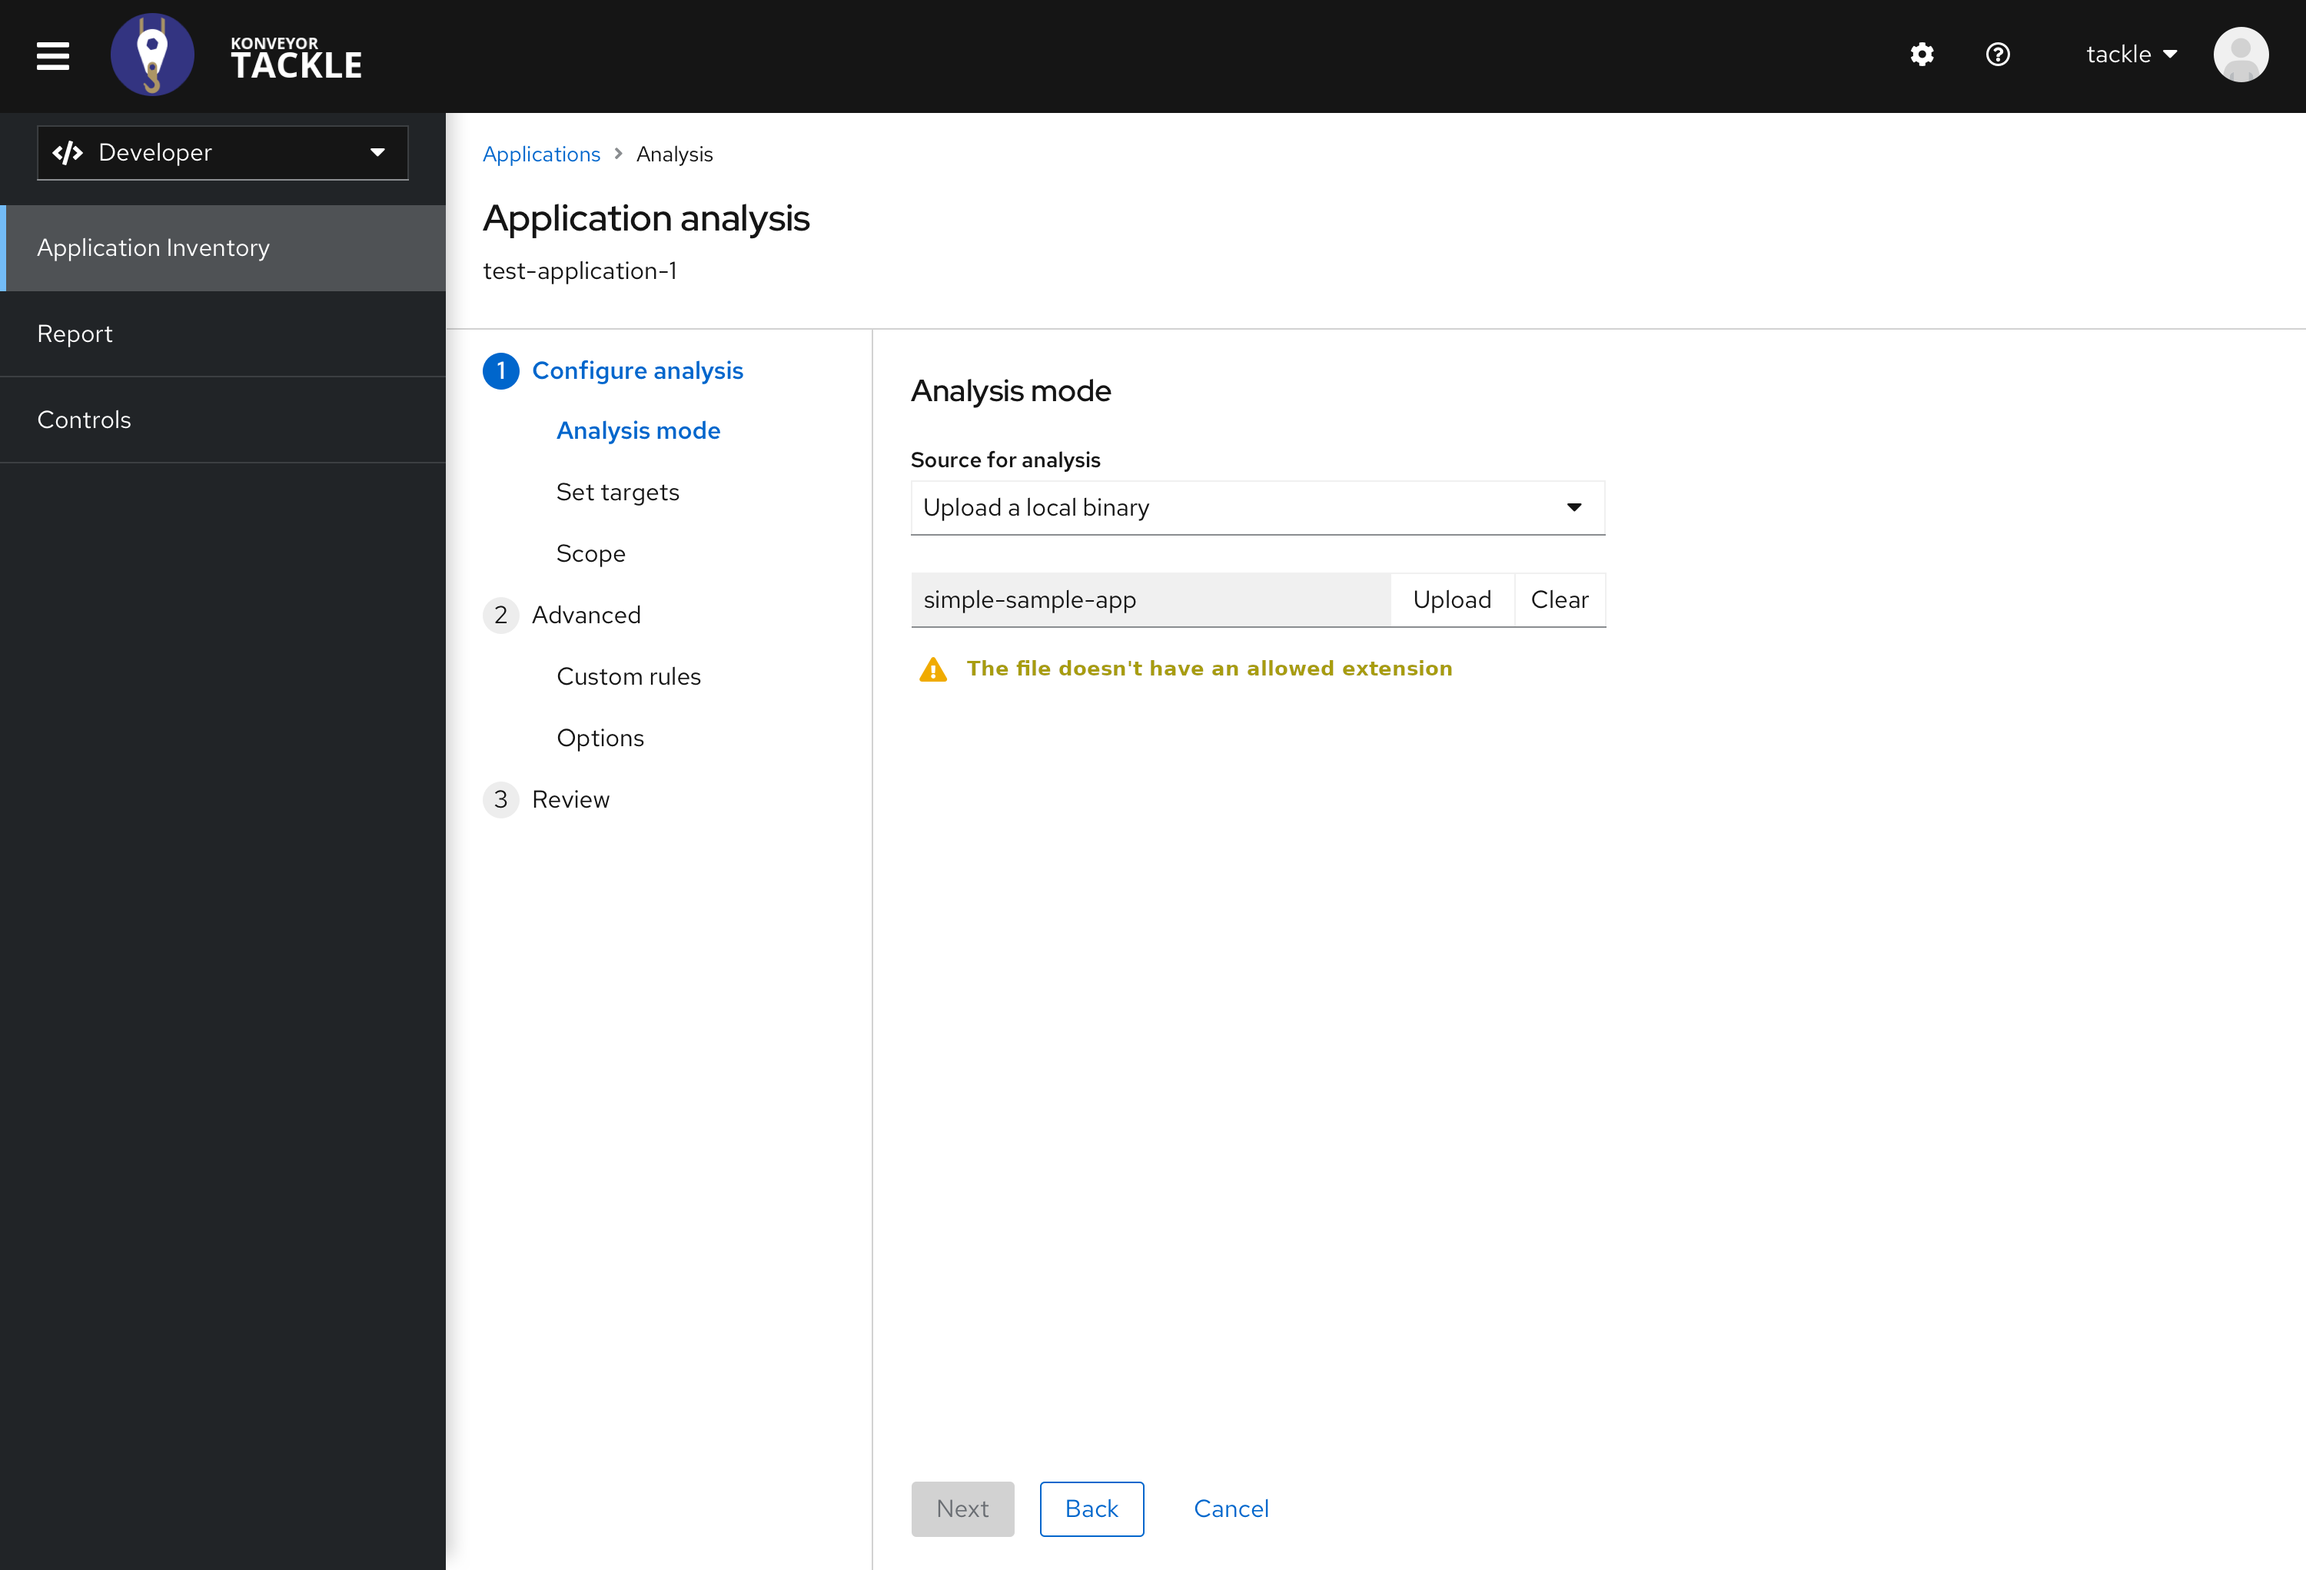
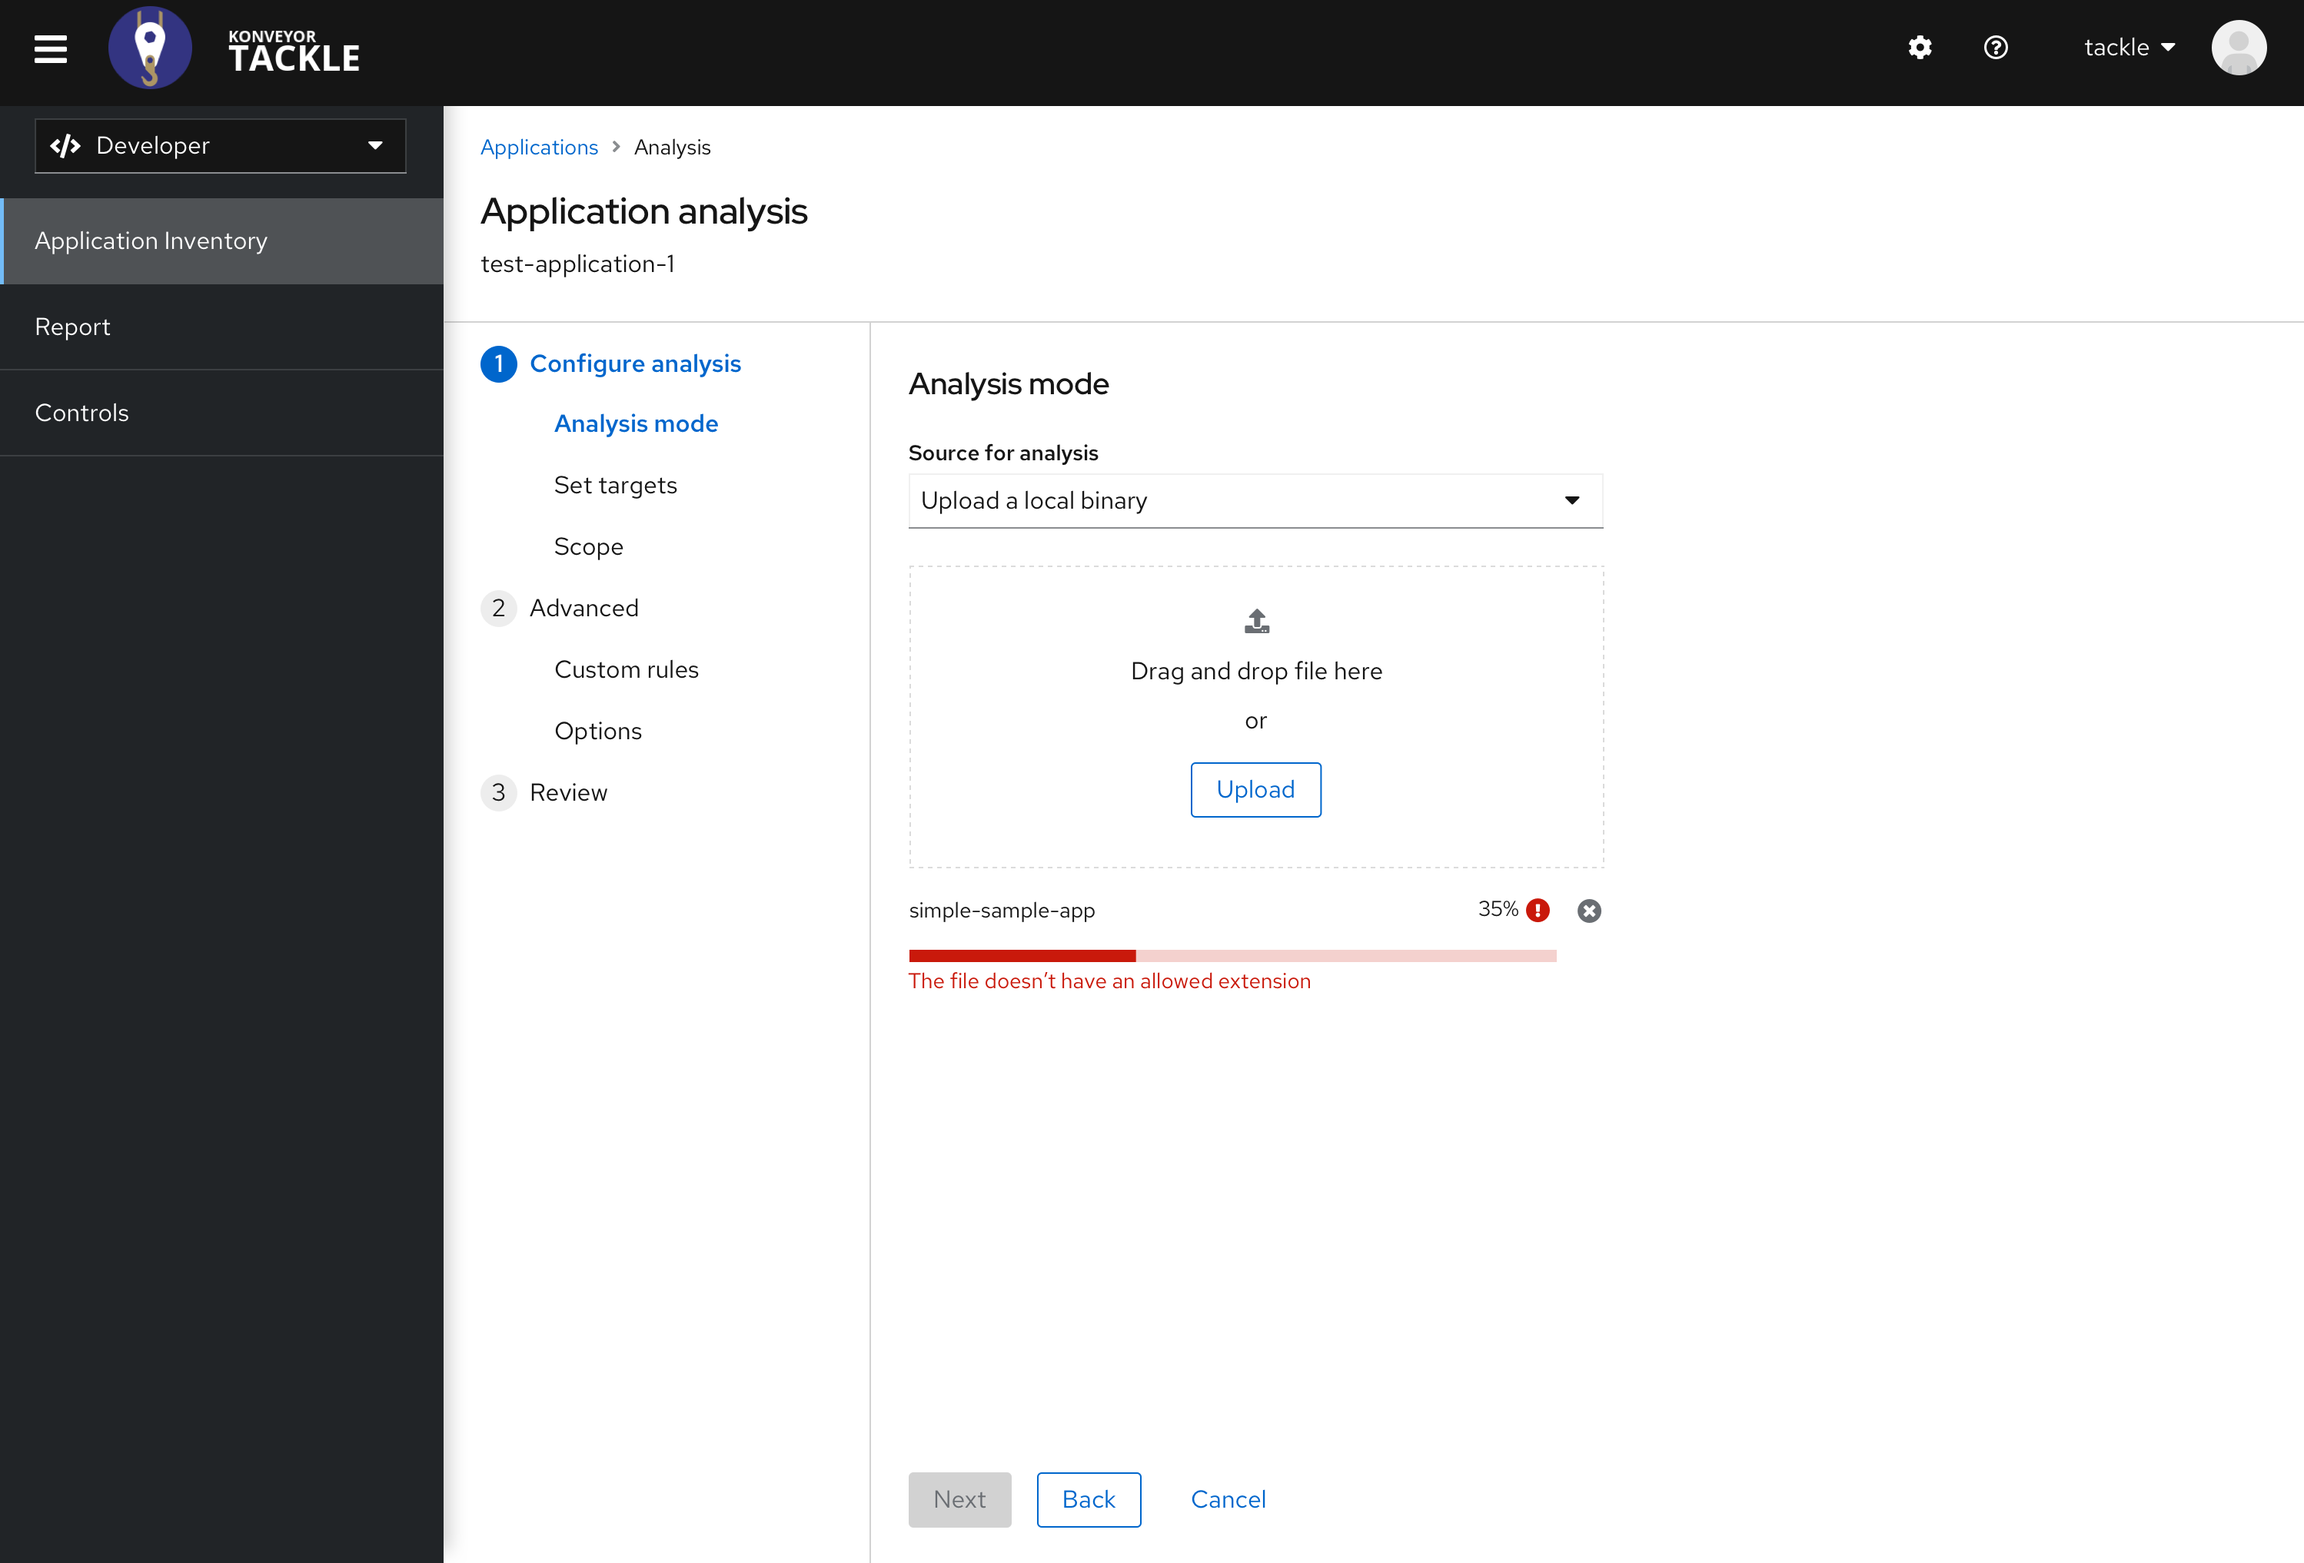
Enhanced advanced options screen to accomodate sources and targets from custom rules. Updated some mockups.

diff --git a/enhancements/tackle/tackle-windup-integration/README.md b/enhancements/tackle/tackle-windup-integration/README.md
@@ -3,12 +3,12 @@ title: tackle-windup-integration
 authors:
   - "rromannissen"
 reviewers:
-  - TBD
+  - "jortel"
 approvers:
-  - TBD
+  - "jortel"
 creation-date: 2021-11-19
-last-updated: 2022-01-26
-status: provisional
+last-updated: 2022-03-11
+status: implementable
 see-also:
   -   
 replaces:
@@ -22,8 +22,8 @@ superseded-by:
 
 ## Release Signoff Checklist
 
-- [ ] Enhancement is `implementable`
-- [ ] Design details are appropriately documented from clear requirements
+- [X] Enhancement is `implementable`
+- [X] Design details are appropriately documented from clear requirements
 - [ ] Test plan is defined
 - [ ] User-facing documentation is created
 
@@ -524,8 +524,8 @@ After optionally adding custom rules, the user can configure a series of advance
 
 This screen presents the following fields:
 
-- **Target(s)**: List of targets configured for the analysis. It should be prepopulated with the values that were established in the transformation target screen. The field should be a dropdown with multiple selection. The selected values should be passed to the CLI with the --target flag separated by spaces. (eg. --target eap7 cloud-readiness) Values:
-  - camel
+- **Target(s)**: List of targets configured for the analysis. It should be prepopulated with the values that were established in the transformation target screen. **If the user uploaded any custom rules on the previous screen, targets from these rules should appear selected as well**. The field should be a dropdown with multiple selection. The selected values should be passed to the CLI with the --target flag separated by spaces. (eg. --target eap7 cloud-readiness) Values should include the following fixed list **plus any custom target that might have been derived from the custom rules in the previous screen**. For example, if any custom rule in the previous screen had a target named *custom-target*, it should be added as well to the following list of available options and appear as selected in the list of selected targets:
+    - camel
 	- cloud-readiness
 	- drools
 	- eap
@@ -545,8 +545,8 @@ This screen presents the following fields:
 	- quarkus1
 	- resteasy
 	- rhr
-- **Source**: List of sources configured for the analysis. This helps narrowing down the list of rules that should be executed during the analysis. The field should be a dropdown with multiple selection. The selected values should be passed to the CLI with the --source flag separated by spaces. (eg. --source eap eap6). Values:
-  - agroal
+- **Source(s)**: List of sources configured for the analysis. This helps narrowing down the list of rules that should be executed during the analysis. The field should be a dropdown with multiple selection. It should be empty by default, but **if the user uploaded any custom rules on the previous screen, sources from these rules should appear selected as well** The selected values should be passed to the CLI with the --source flag separated by spaces. (eg. --source eap eap6). Values should include the following fixed list **plus any custom source that might have been derived from the custom rules in the previous screen**. For example, if any custom rule in the previous screen had a source named *custom-source*, it should be added as well to the following list of available options and appear as selected in the list of selected sources:
+    - agroal
 	- amazon
 	- artemis
 	- avro
@@ -600,12 +600,13 @@ This screen presents the following fields:
 At the end of the analysis configuration flow, the user will be presented with a review screen with all the options that have been configured for the analysis:
 
 
-![Advanced Options](images/ba-review.png?raw=true "Advanced Options")
+![Analysis Review](images/ba-review.png?raw=true "Analysis Review")
 
 The review screen will be informative only, and no inputs will be requested to the user. The information to be displayed is the following:
 
 - **Applications**: List of applications included in the analysis.
 - **Target(s)**: Target migration paths defined for the analysis.
+- **Source(s)**: Sources defined for the analysis.
 - **Scope**: Scope defined for the analysis.
 - **Included Packages**: List of packages defined for the analysis. This section will only be displayed if the "Select the list of packages to be analyzed manually" scope was defined.
 - **Custom rules**: List of custom rules defined for the analysis. "None" if no custom rules were defined.
@@ -649,7 +650,11 @@ If the "Upload a local binary" option is selected, a new field will appear below
 
 ![Single Application Analysis](images/sa-analysis-mode-upload-binary-empty.png?raw=true "Single Application Analysis")
 
-The "Next" button will be disabled until a file is uploaded using the new field. Once the user drags a file or chooses one from its filesystem using the component, a validation will be fired to check if the file has a correct extension. Allowed extensions are: war, ear, jar, zip. If the file doesn't have an allowed extension, an error message will be displayed and the "Next" button will remain disabled:
+The "Next" button will be disabled until a file is uploaded using the new field. Once the user drags a file or chooses one from its filesystem using the component a progress bar will be displayed and the upload will begin:
+
+![Single Application Analysis](images/sa-analysis-mode-upload-binary-uploading.png?raw=true "Single Application Analysis")
+
+A validation will be fired to check if the file has a correct extension. Allowed extensions are: war, ear, jar, zip. If the file doesn't have an allowed extension, an error message will be displayed and the "Next" button will remain disabled:
 
 ![Single Application Analysis](images/sa-analysis-mode-upload-binary-error.png?raw=true "Single Application Analysis")
 
